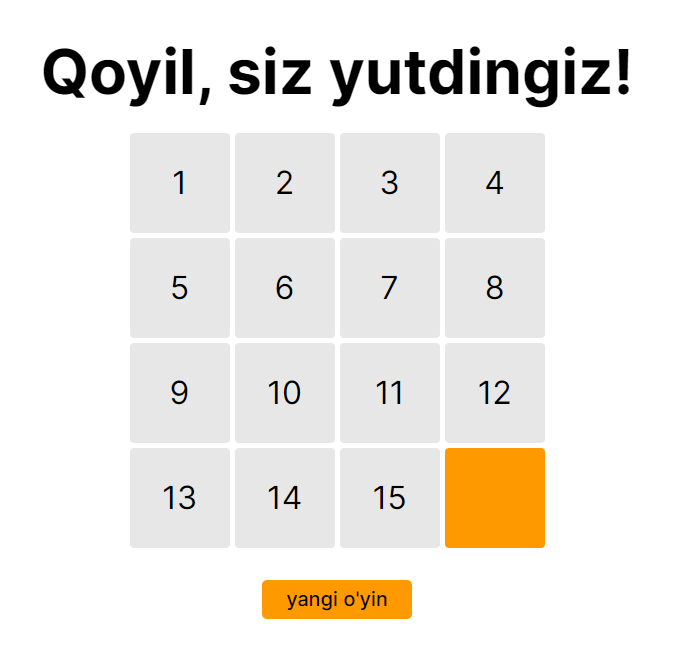
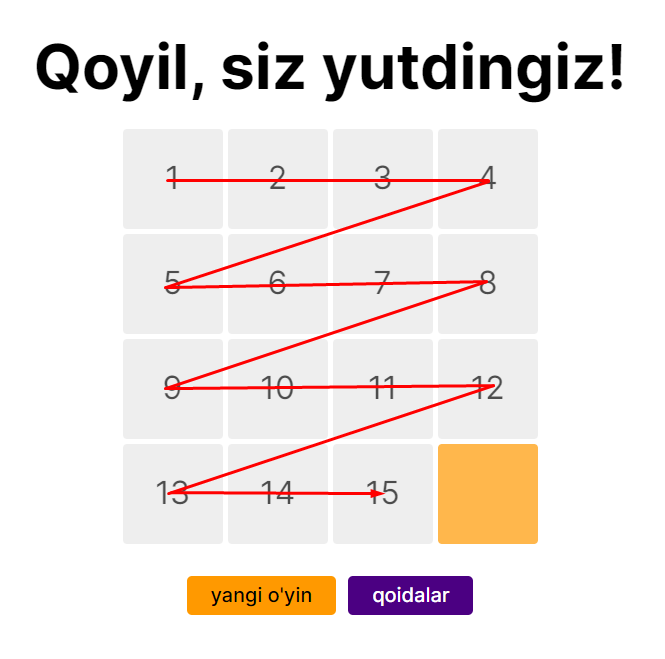
update rules img

diff --git a/assets/script.js b/assets/script.js
@@ -10,7 +10,7 @@ const elModal = document.getElementById("modal");
 const array = Array.from({ length: 15 }, (_, idx) => idx + 1);
 let isGameOver = false;
 
-let shuffledArray = shuffleArray(array);
+let shuffledArray = array;
 shuffledArray.push(16);
 
 // functions
